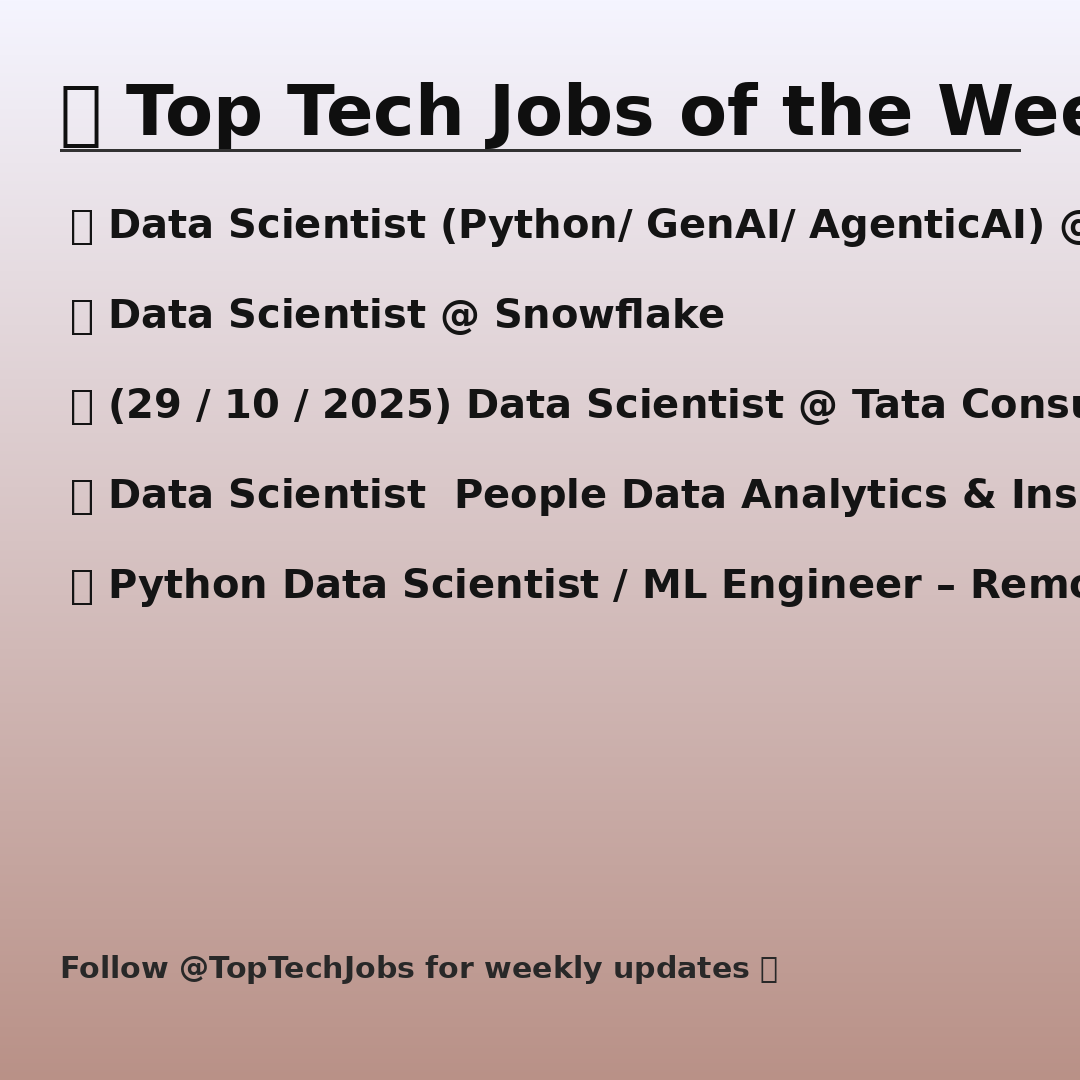
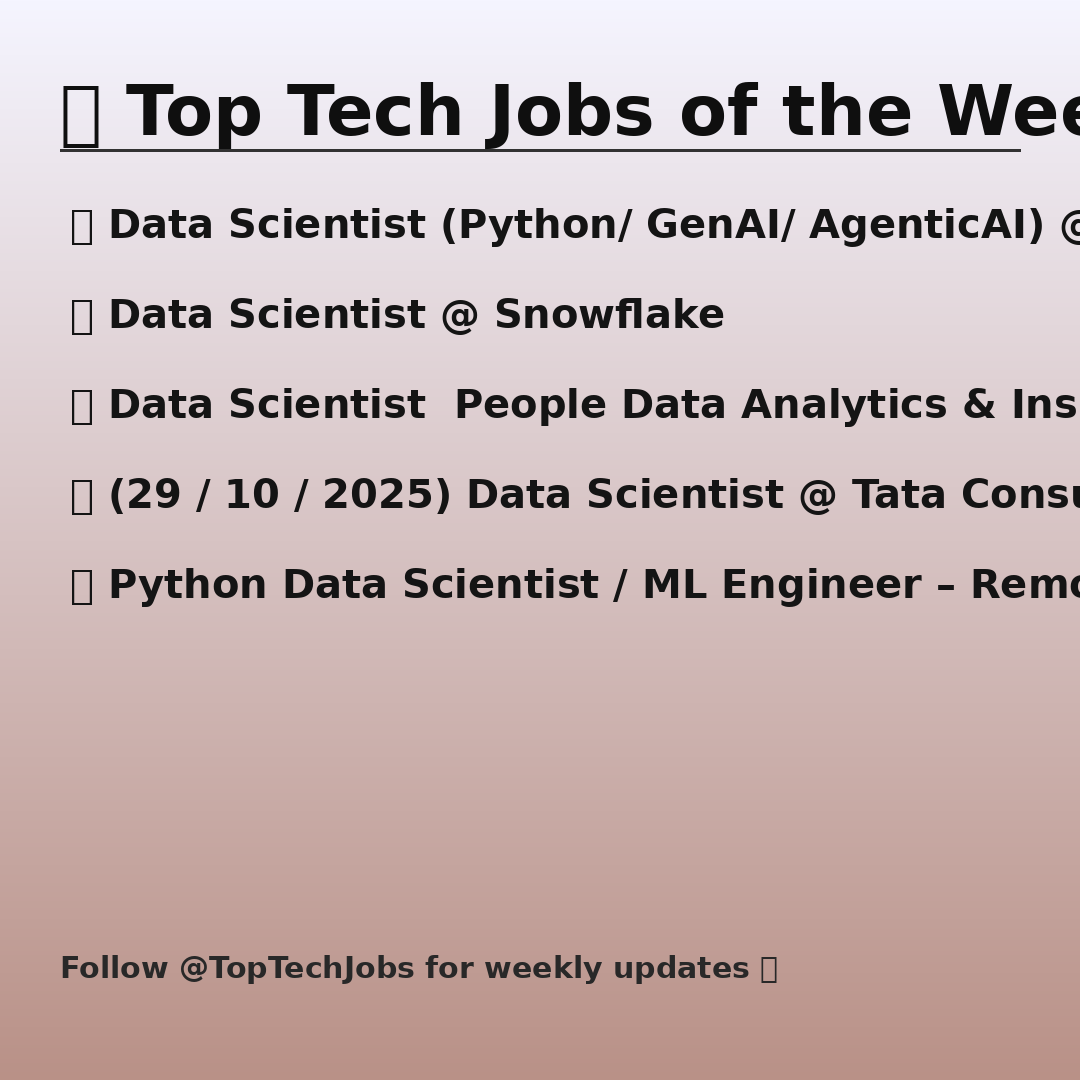
Update job listings

Changed region(s): [[0.0917, 0.4278, 1.0, 0.4889], [0.0917, 0.3361, 1.0, 0.3972]]

diff --git a/index.html b/index.html
@@ -1,71 +1,23 @@
-<!DOCTYPE html>
-<html>
-<head>
-    <meta charset='utf-8'>
-    <title>Top Tech Jobs of the Week – India 🇮🇳</title>
-    <style>
-        body {
-            font-family: sans-serif;
-            max-width: 700px;
-            margin: auto;
-            padding: 20px;
-        }
-        .job {
-            border: 1px solid #ddd;
-            padding: 20px;
-            border-radius: 8px;
-            margin: 20px 0;
-            transition: all 0.5s;
-            min-height: 150px;
-        }
-        .highlight {
-            background: #fff7a1 !important;
-            box-shadow: 0 0 15px rgba(0,0,0,0.1);
-            transform: scale(1.02);
-        }
-        .company-info {
-            margin-top: 10px;
-            color: #666;
-        }
-        .apply-btn {
-            display: inline-block;
-            margin-top: 15px;
-            padding: 10px 20px;
-            background: #0073b1;
-            color: white;
-            border-radius: 5px;
-            transition: background 0.3s;
-        }
-        .apply-btn:hover {
-            background: #005582;
-            text-decoration: none;
-        }
-    </style>
-    <script>
-        window.onload = function() {
-            const hash = window.location.hash;
-            if (hash) {
-                const el = document.querySelector(hash);
-                if (el) {
-                    // Remove any existing highlights
-                    document.querySelectorAll('.highlight').forEach(e => e.classList.remove('highlight'));
-                    
-                    // Add highlight to target element
-                    el.classList.add('highlight');
-                    
-                    // Smooth scroll to element
-                    el.scrollIntoView({behavior: 'smooth', block: 'start'});
-                    
-                    // Keep highlight for 4 seconds
-                    setTimeout(() => el.classList.remove('highlight'), 4000);
+<!DOCTYPE html><html><head><meta charset='utf-8'><title>Top Tech Jobs of the Week – India 🇮🇳</title>
+        <style>
+            body{font-family:sans-serif;max-width:700px;margin:auto;padding:20px}
+            .job{border:1px solid #ddd;padding:10px;border-radius:8px;margin:10px 0;transition:background 0.5s}
+            .highlight{background: #fff7a1 !important;}
+            a{color:#0073b1;text-decoration:none}
+            a:hover{text-decoration:underline}
+        </style>
+        <script>
+            window.onload = function() {
+                const hash = window.location.hash;
+                if (hash) {
+                    const el = document.querySelector(hash);
+                    if (el) {
+                        el.classList.add('highlight');
+                        el.scrollIntoView({behavior: 'smooth', block: 'center'});
+                        setTimeout(() => el.classList.remove('highlight'), 4000);
+                    }
                 }
             }
-        }
-    </script>
-</head>
-<body>
-    <h1>🚀 Top Tech Jobs of the Week – India 🇮🇳</h1>
-    <!-- Jobs will be inserted here by the Python script -->
-    <footer><hr>Updated {datetime}</footer>
-</body>
-</html>
+        </script>
+        </head><body>
+        <h1>🚀 Top Tech Jobs of the Week – India 🇮🇳</h1><div id='job-0' class='job'><a href='https://in.linkedin.com/jobs/view/data-scientist-python-genai-agenticai-at-wolters-kluwer-4319872554?utm_campaign=google_jobs_apply&utm_source=google_jobs_apply&utm_medium=organic' target='_blank'><b>Data Scientist (Python/ GenAI/ AgenticAI)</b></a><br>Wolters Kluwer – Pune</div><div id='job-1' class='job'><a href='https://careers.snowflake.com/us/en/job/SNCOUSE5563EEBE22F4F83ABADA6BD2B014860EXTERNALENUSF7C857F3DD284045B0C758E492307EC3/Data-Scientist?utm_campaign=google_jobs_apply&utm_source=google_jobs_apply&utm_medium=organic' target='_blank'><b>Data Scientist</b></a><br>Snowflake – Pune</div><div id='job-2' class='job'><a href='https://jobs.syngenta.com/job/data-scientist-people-data-analytics-and-insights-in-in-pune-jid-14917?utm_campaign=google_jobs_apply&utm_source=google_jobs_apply&utm_medium=organic' target='_blank'><b>Data Scientist  People Data Analytics & Insights</b></a><br>Syngenta – Pune</div><div id='job-3' class='job'><a href='https://in.talent.com/view?id=d99f903fffd8&utm_campaign=google_jobs_apply&utm_source=google_jobs_apply&utm_medium=organic' target='_blank'><b>(29 / 10 / 2025) Data Scientist</b></a><br>Tata Consultancy Services – Pune</div><div id='job-4' class='job'><a href='https://in.linkedin.com/jobs/view/python-data-scientist-ml-engineer-%E2%80%93-remote-hybrid-ai-ml-deep-learning-only-4%2B-years-of-experience-at-remotohire-4331723103?utm_campaign=google_jobs_apply&utm_source=google_jobs_apply&utm_medium=organic' target='_blank'><b>Python Data Scientist / ML Engineer – Remote/Hybrid | AI, ML, Deep Learning | Only 4+ Years of Experience</b></a><br>Remotohire – Pune</div><div id='job-5' class='job'><a href='https://careers.fisglobal.com/us/en/job/FIGLUSJR0296204EXTERNAL/Senior-Data-Scientist-Artificial-Intelligence-Machine-Learning?utm_campaign=google_jobs_apply&utm_source=google_jobs_apply&utm_medium=organic' target='_blank'><b>Senior Data Scientist (Artificial Intelligence Machine Learning)</b></a><br>FIS Global – Pune</div><footer><hr>Updated 02 Nov 2025</footer></body></html>
